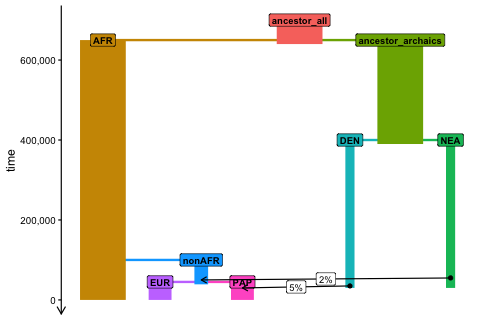
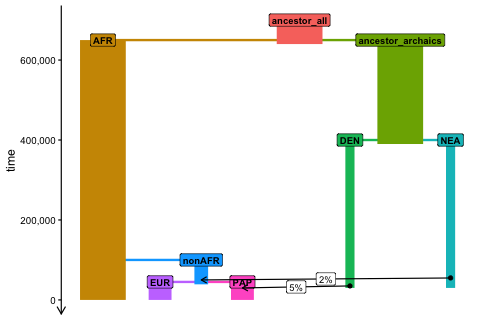
Remove Binder

Changed region(s): [[0.9062, 0.4062, 0.9688, 0.9062], [0.6875, 0.4062, 0.7812, 0.9062]]

diff --git a/README.md b/README.md
@@ -6,7 +6,7 @@
 
 <!-- badges: start -->
 
-[![CRAN-version](https://www.r-pkg.org/badges/version/slendr)](https://cran.r-project.org/package=slendr) [![CRAN-downloads](https://cranlogs.r-pkg.org/badges/grand-total/slendr)](https://cran.r-project.org/package=slendr) [![R-CMD-check](https://github.com/bodkan/slendr/workflows/R-CMD-check/badge.svg)](https://github.com/bodkan/slendr/actions) [![Binder](http://mybinder.org/badge.svg)](http://beta.mybinder.org/v2/gh/bodkan/slendr/main?urlpath=rstudio) [![Coverage status](https://codecov.io/gh/bodkan/slendr/branch/main/graph/badge.svg)](https://app.codecov.io/github/bodkan/slendr?branch=main)
+[![CRAN-version](https://www.r-pkg.org/badges/version/slendr)](https://cran.r-project.org/package=slendr) [![CRAN-downloads](https://cranlogs.r-pkg.org/badges/grand-total/slendr)](https://cran.r-project.org/package=slendr) [![R-CMD-check](https://github.com/bodkan/slendr/workflows/R-CMD-check/badge.svg)](https://github.com/bodkan/slendr/actions) [![Coverage status](https://codecov.io/gh/bodkan/slendr/branch/main/graph/badge.svg)](https://app.codecov.io/github/bodkan/slendr?branch=main)
 
 <!-- badges: end -->
 
@@ -51,18 +51,6 @@ Here is a brief summary of _slendr_'s most important features. The R package all
 -   Specify within-population individual [dispersal dynamics](https://bodkan.net/slendr/articles/vignette-03-interactions.html) from the R interface by leveraging SLiM's individual interaction parameters implemented in the SLiM back-end script.
 
 **Utilizing the flexibility of R with its wealth of libraries for statistics, geospatial analysis and graphics, and combining it with the power of population genetic simulation frameworks SLiM and _msprime_, the _slendr_ R package makes it possible to write entire workflows without the need to leave the R environment.**
-
-------------------------------------------------------------------------
-
-### Testing the R package in an online RStudio session
-
-You can open an RStudio session and test examples from the [vignettes](https://bodkan.net/slendr/articles/) directly in your web browser by clicking this button (no installation is needed!):
-
-[![Binder](http://mybinder.org/badge.svg)](http://beta.mybinder.org/v2/gh/bodkan/slendr/main?urlpath=rstudio)
-
-**In case the RStudio instance appears to be starting very slowly, please be patient (Binder is a freely available service with limited computational resources provided by the community).** If Binder crashes, try reloading the web page, which will restart the cloud session.
-
-Once you get a browser-based RStudio session, you can navigate to the `vignettes/` directory and test the examples on your own!
 
 ------------------------------------------------------------------------
 
